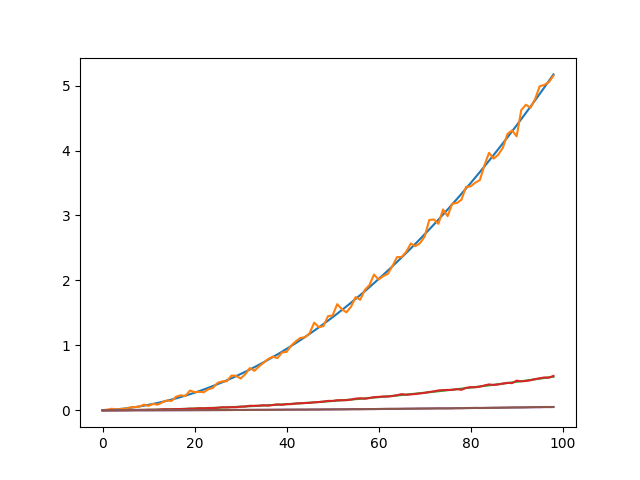
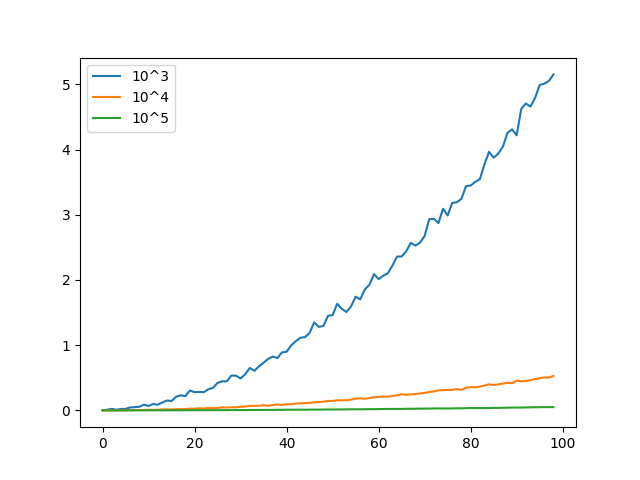
change

diff --git a/readme.md b/readme.md
@@ -2,7 +2,15 @@
 
 In this experiment I generated $m$ samples from two $n$-dimensional Normal Gaussian distributions $N(0,I_n)$.
 
-The results range for $n \in [1,99]$ and for $m \in \{10^3,10^4,10^5\}$ 
+Results range for $n \in [1,99]$ (x-axis) and for $m \in \{10^3,10^4,10^5\}$ (three different lines)
+
+<img src="https://github.com/MarcoFurlan99/7_Wasserstein_computation_and_more/blob/master/images/Wasserstein_accuracy.png?raw=true">
+
+I fit the polynomials and found out that the following polynomial:
+
+$$a$$
+
+fits perfectly all 3:
 
 <img src="https://github.com/MarcoFurlan99/7_Wasserstein_computation_and_more/blob/master/images/Wasserstein_accuracy.png?raw=true">
 
